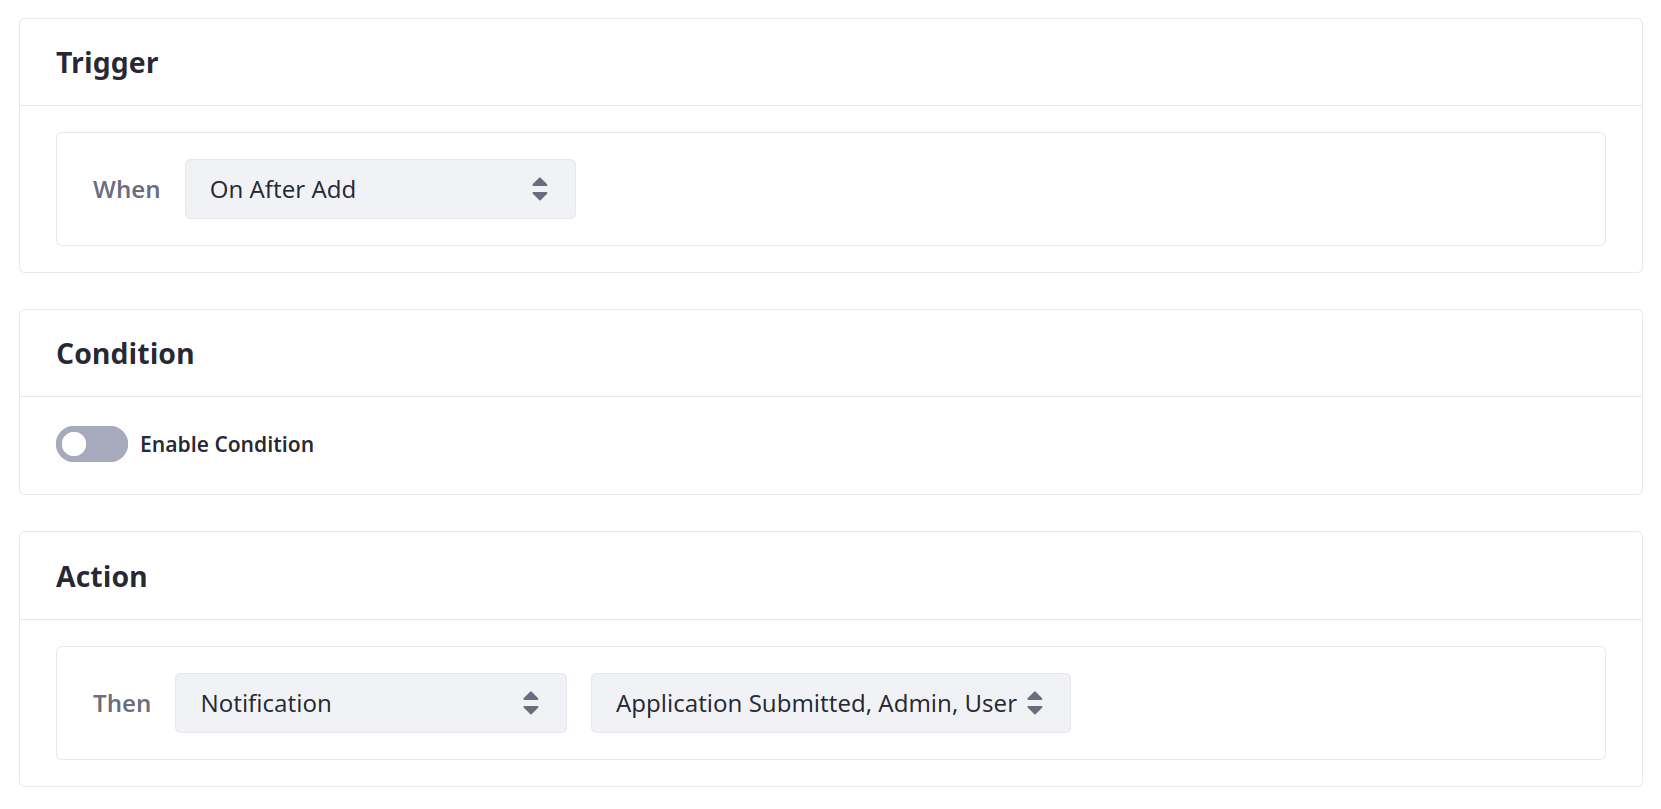
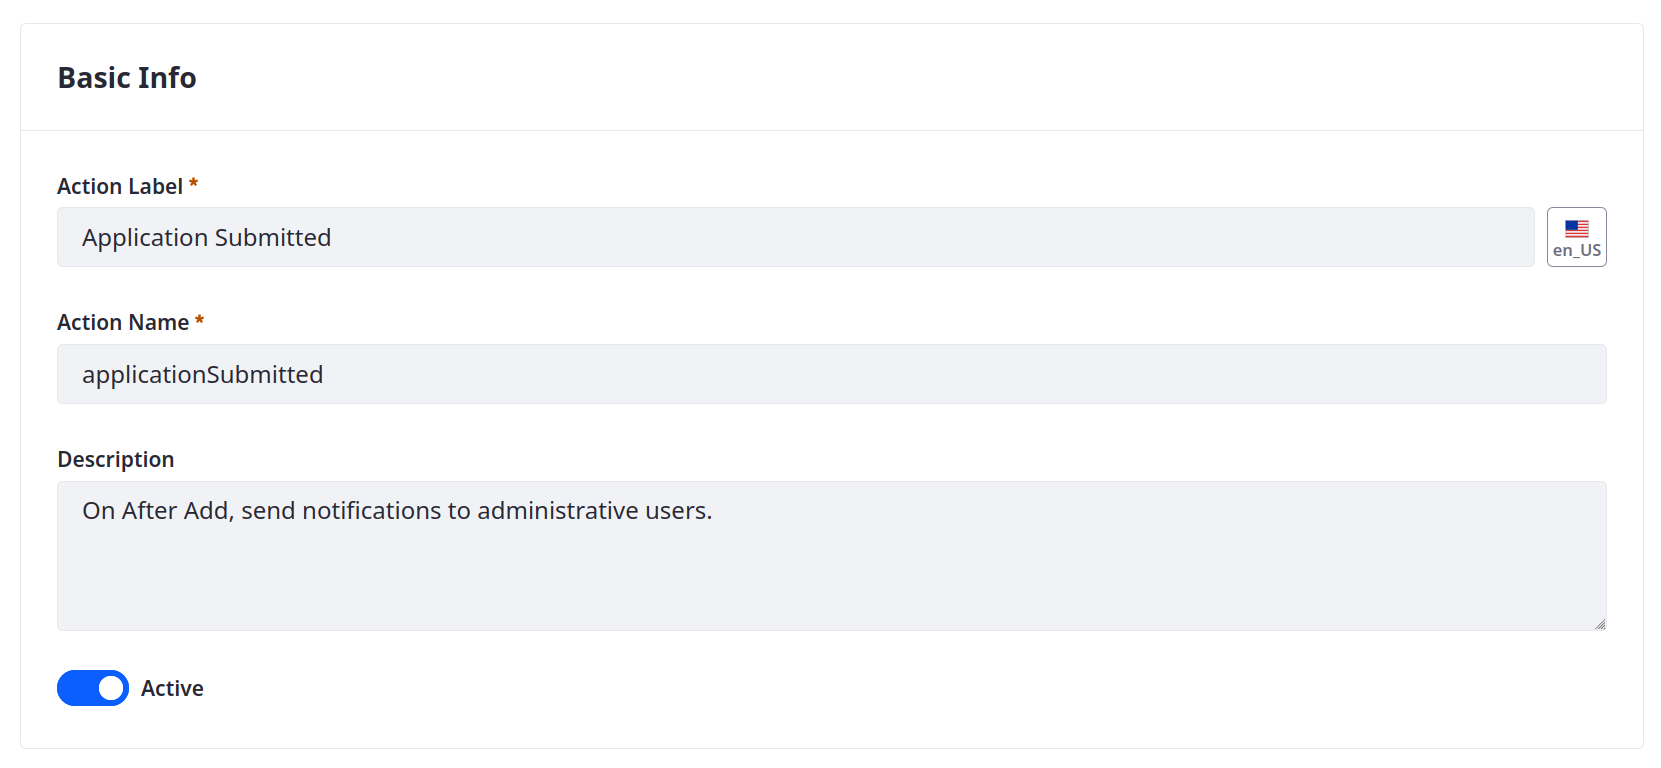
LRDOCS-11747 update notification content w/imgs

diff --git a/docs/courses/latest/en/application-development/implementing-business-logic/automating-notifications/adding-notification-actions-to-distributor-application.md b/docs/courses/latest/en/application-development/implementing-business-logic/automating-notifications/adding-notification-actions-to-distributor-application.md
@@ -1,14 +1,16 @@
 # Adding Notification Actions to Distributor Application
 
-The first two actions trigger when an entry is created. The other two depend on status updates. <!--FINISH-->
+Delectable Bonsai wants to improve visibility for the applications they receive. The first two actions trigger when an entry is created. The other two depend on status updates. <!--FINISH-->
+
+![Add notifications actions to Distributor Application.](./adding-notification-actions-to-distributor-application/images/01.png)
 
 ## Action for Application Submitted
 
-1. Open the *Global Menu* ( ![Global Menu](../../images/icon-applications-menu.png) ), go to the *Control Panel* tab, and click *Objects*.
+1. Open the *Global Menu* ( ![Global Menu](../../../images/icon-applications-menu.png) ), go to the *Control Panel* tab, and click *Objects*.
 
 1. Begin editing the *Distributer Application* object.
 
-1. Go to the *Actions* tab and click *Add* ( ![Add Button](../../images/icon-add.png) ).
+1. Go to the *Actions* tab and click *Add* ( ![Add Button](../../../images/icon-add.png) ).
 
 1. Enter these values in the Basic Info tab:
 
@@ -19,102 +21,116 @@ The first two actions trigger when an entry is created. The other two depend on 
    | Description  | On After Add, send notifications to administrative users. |
    | Active       | True                                                      |
 
-   ![Enter these values in the Basic Info tab.](./adding-notification-actions-to-distributor-application/images/01.png)
+   ![Enter these values in the Basic Info tab.](./adding-notification-actions-to-distributor-application/images/02.png)
 
 1. Go to the *Action Builder* tab and set these values:
 
-   | Field | Value |
-   |:------|:------|
-   | Trigger | On After Add |
-   | Condition | N/A |
-   | Action | Notification |
+   | Field                 | Value                              |
+   |:----------------------|:-----------------------------------|
+   | Trigger               | On After Add                       |
+   | Condition             | N/A                                |
+   | Action                | Notification                       |
    | Notification Template | Application Submitted, Admin, User |
 
-   ![Enter these values in the Action Builder tab.](./adding-notification-actions-to-distributor-application/images/02.png)
+   ![Enter these values in the Action Builder tab.](./adding-notification-actions-to-distributor-application/images/03.png)
 
 1. Click *Save*.
 
 ## Action for Application Received
 
-1. In the *Actions* tab, click *Add* ( ![Add Button](../../images/icon-add.png) ).
+1. In the *Actions* tab, click *Add* ( ![Add Button](../../../images/icon-add.png) ).
 
 1. Enter these values for Basic Info:
 
-   | Field | Value |
-   |:------|:------|
-   | Action Label | Application Received |
-   | Action Name | applicationReceived |
-   | Description | On After Add, send notifications to applicants. |
-   | Active | True |
+   | Field        | Value                                           |
+   |:-------------|:------------------------------------------------|
+   | Action Label | Application Received                            |
+   | Action Name  | applicationReceived                             |
+   | Description  | On After Add, send notifications to applicants. |
+   | Active       | True                                            |
 
 1. Go to the *Action Builder* tab and set these values:
 
-   | Field | Value |
-   |:------|:------|
-   | Trigger | On After Add |
-   | Condition | N/A |
-   | Action | Notification |
+   | Field                 | Value                                  |
+   |:----------------------|:---------------------------------------|
+   | Trigger               | On After Add                           |
+   | Condition             | N/A                                    |
+   | Action                | Notification                           |
    | Notification Template | Application Received, Applicant, Email |
 
 1. Click *Save*.
 
 ## Action for Application Approved
 
-1. In the *Actions* tab, click *Add* ( ![Add Button](../../images/icon-add.png) ).
+1. In the *Actions* tab, click *Add* ( ![Add Button](../../../images/icon-add.png) ).
 
 1. Enter these values for Basic Info:
 
-   | Field | Value |
-   |:------|:------|
-   | Action Label | Application Approved |
-   | Action Name | applicationApproved |
-   | Description | On After Update, send notifications to applicants when state is 'Approved'. |
-   | Active | True |
+   | Field        | Value                                                                       |
+   |:-------------|:----------------------------------------------------------------------------|
+   | Action Label | Application Approved                                                        |
+   | Action Name  | applicationApproved                                                         |
+   | Description  | On After Update, send notifications to applicants when state is 'Approved'. |
+   | Active       | True                                                                        |
 
 1. Go to the *Action Builder* tab and set these values:
 
-   | Field | Value |
-   |:------|:------|
-   | Trigger | On After Update |
-   | Condition | `applicationState == "approved" AND status == "approved"` |
-   | Action | Notification |
-   | Notification Template | Application Approved, Applicant, Email |
-
-   <!-- Confirm this is how you validate using the status field. Do you have to use the key or the label? -->
+   | Field                 | Value                                            |
+   |:----------------------|:-------------------------------------------------|
+   | Trigger               | On After Update                                  |
+   | Condition             | `applicationState == "approved" AND status == 0` |
+   | Action                | Notification                                     |
+   | Notification Template | Application Approved, Applicant, Email           |
 
 1. Click *Save*.
 
 ## Action for Application Denied
 
-1. In the *Actions* tab, click *Add* ( ![Add Button](../../images/icon-add.png) ).
+1. In the *Actions* tab, click *Add* ( ![Add Button](../../../images/icon-add.png) ).
 
 1. Enter these values for Basic Info:
 
-   | Field | Value |
-   |:------|:------|
-   | Action Label | Application Denied |
-   | Action Name | applicationDenied |
-   | Description | On After Update, send notifications to applicants when state is 'Denied'. |
-   | Active | True |
+   | Field        | Value                                                                     |
+   |:-------------|:--------------------------------------------------------------------------|
+   | Action Label | Application Denied                                                        |
+   | Action Name  | applicationDenied                                                         |
+   | Description  | On After Update, send notifications to applicants when state is 'Denied'. |
+   | Active       | True                                                                      |
 
 1. Go to the *Action Builder* tab and set these values:
 
-   | Field | Value |
-   |:------|:------|
-   | Trigger | On After Update |
-   | Condition | `applicationState == "denied" AND status == "approved"` |
-   | Action | Notification |
-   | Notification Template | Application Denied, Applicant, Email |
-
-   <!-- Confirm this is how you validate using the status field. Do you have to use the key or the label? -->
+   | Field                 | Value                                          |
+   |:----------------------|:-----------------------------------------------|
+   | Trigger               | On After Update                                |
+   | Condition             | `applicationState == "denied" AND status == 0` |
+   | Action                | Notification                                   |
+   | Notification Template | Application Denied, Applicant, Email           |
 
 1. Click *Save*.
 
-<!-- 
-## Triggering Notifications
--->
+## Triggering the Notification Actions
 
-Congratulations! You've successfully added the business logic necessary for the Distributor Application object. Now you can .
+Now that you've added and activated the notification actions, you can trigger them by adding and updating object entries:
+
+1. Go to the Distributor Application page and create an new entry.
+
+1. Verify the Application Submitted and Application Received actions run.
+
+   ![Verify the Application Submitted and Application Received actions run.](./adding-notification-actions-to-distributor-application/images/04.png)
+
+1. Update the application's state to *Approved*.
+
+1. Verify the Application Approved action runs.
+
+   ![Verify the Application Approved action runs.](./adding-notification-actions-to-distributor-application/images/05.png)
+
+1. Update the application's state to *Denied*.
+
+1. Verify the Application Denied action runs.
+
+   ![Verify the Application Denied action runs.](./adding-notification-actions-to-distributor-application/images/06.png)
+
+Congratulations! You've successfully added the business logic necessary for the Distributor Application object. Now you can design a user interface using Liferay's page builder features.
 
 Next: [Designing User Interfaces](../../designing-user-interfaces.md)
 

diff --git a/docs/courses/latest/en/application-development/implementing-business-logic/automating-notifications/adding-notification-templates-for-distributor-application.md b/docs/courses/latest/en/application-development/implementing-business-logic/automating-notifications/adding-notification-templates-for-distributor-application.md
@@ -19,9 +19,9 @@ If the out-of-the-box notification types do not satisfy your requirements, you c
 
 ## Application Submitted Template
 
-1. Open the *Global Menu* ( ![Global Menu](../../images/icon-applications-menu.png) ), go to the *Control Panel* tab, and click *Templates*.
+1. Open the *Global Menu* ( ![Global Menu](../../../images/icon-applications-menu.png) ), go to the *Control Panel* tab, and click *Templates*.
 
-1. Click *Add* ( ![Add Button](../../images/icon-add.png) ) and select *User Notification*.
+1. Click *Add* ( ![Add Button](../../../images/icon-add.png) ) and select *User Notification*.
 
 1. Scroll down to Definition of Terms and use the Entity drop-down menu to select the *Distributor Application* object.
 
@@ -63,7 +63,7 @@ If the out-of-the-box notification types do not satisfy your requirements, you c
 
 ## Application Received Template
 
-1. Click *Add* ( ![Add Button](../../images/icon-add.png) ) and select *Email*.
+1. Click *Add* ( ![Add Button](../../../images/icon-add.png) ) and select *Email*.
 
 1. Enter these values for Basic Info:
 
@@ -94,7 +94,7 @@ If the out-of-the-box notification types do not satisfy your requirements, you c
    | Editor Type | Rich Text |
    | Template | <!--See below...--> |
 
-   For the Template field, click the *Source* button ( ![Source button](../../images/icon-code.png) ). Then, copy and paste the contents of [`ApplicationReceived_Applicant_Email.html`](https://resources.learn.liferay.com/courses/latest/en/application-development/implementing-business-logic/automating-notifications/adding-notification-templates-for-distributor-application/ApplicationReceived_Applicant_Email.html) into the Template field.
+   For the Template field, click the *Source* button ( ![Source button](../../../images/icon-code.png) ). Then, copy and paste the contents of [`ApplicationReceived_Applicant_Email.html`](https://resources.learn.liferay.com/courses/latest/en/application-development/implementing-business-logic/automating-notifications/adding-notification-templates-for-distributor-application/ApplicationReceived_Applicant_Email.html) into the Template field.
 
    ![Enter these values for Content.](./adding-notification-templates-for-distributor-application/images/08.png)
 
@@ -106,7 +106,7 @@ If the out-of-the-box notification types do not satisfy your requirements, you c
 
 ## Application Approved Template
 
-1. Click *Add* ( ![Add Button](../../images/icon-add.png) ) and select *Email*.
+1. Click *Add* ( ![Add Button](../../../images/icon-add.png) ) and select *Email*.
 
 1. Enter these values for Basic Info:
 
@@ -133,7 +133,7 @@ If the out-of-the-box notification types do not satisfy your requirements, you c
    | Editor Type | Rich Text                          |
    | Template    | <!--See below...-->                |
 
-   For the Template field, click the *Source* button ( ![Source button](../../images/icon-code.png) ). Then, copy and paste the contents of [`ApplicationApproved_Applicant_Email.html`](https://resources.learn.liferay.com/courses/latest/en/application-development/implementing-business-logic/automating-notifications/adding-notification-templates-for-distributor-application/ApplicationApproved_Applicant_Email.html) into the Template field.
+   For the Template field, click the *Source* button ( ![Source button](../../../images/icon-code.png) ). Then, copy and paste the contents of [`ApplicationApproved_Applicant_Email.html`](https://resources.learn.liferay.com/courses/latest/en/application-development/implementing-business-logic/automating-notifications/adding-notification-templates-for-distributor-application/ApplicationApproved_Applicant_Email.html) into the Template field.
 
    When rendered, the body of the message should look like this:
 
@@ -143,7 +143,7 @@ If the out-of-the-box notification types do not satisfy your requirements, you c
 
 ## Application Denied Template
 
-1. Click *Add* ( ![Add Button](../../images/icon-add.png) ) and select *Email*.
+1. Click *Add* ( ![Add Button](../../../images/icon-add.png) ) and select *Email*.
 
 1. Enter these values for Basic Info:
 
@@ -170,7 +170,7 @@ If the out-of-the-box notification types do not satisfy your requirements, you c
    | Editor Type | Rich Text                   |
    | Template    | <!--See below...-->         |
 
-   For the Template field, click the *Source* button ( ![Source button](../../images/icon-code.png) ). Then, copy and paste the contents of [`ApplicationDenied_Applicant_Email.html`](https://resources.learn.liferay.com/courses/latest/en/application-development/implementing-business-logic/automating-notificiations/adding-notification-templates-for-distributor-application/ApplicationDenied_Applicant_Email.html) into the Template field.
+   For the Template field, click the *Source* button ( ![Source button](../../../images/icon-code.png) ). Then, copy and paste the contents of [`ApplicationDenied_Applicant_Email.html`](https://resources.learn.liferay.com/courses/latest/en/application-development/implementing-business-logic/automating-notificiations/adding-notification-templates-for-distributor-application/ApplicationDenied_Applicant_Email.html) into the Template field.
 
    When rendered, the body of the message should look like this:
 

diff --git a/docs/courses/latest/en/application-development/designing-user-interfaces/adding-the-form-to-the-apply-page.md b/docs/courses/latest/en/application-development/designing-user-interfaces/adding-the-form-to-the-apply-page.md
@@ -6,11 +6,11 @@ With Liferay objects, this involves adding form fragments to a content page or p
 
 1. Navigate to the Apply page and click *Edit* (![Edit Button](../../images/icon-edit.png)).
 
-   ![](./adding-the-form-to-the-apply-page/images/01.png)
+   ![Navigate to the Apply page and click Edit.](./adding-the-form-to-the-apply-page/images/01.png)
 
 1. Drag and drop the *Form Page* fragment into the empty Fragment Elements container at the bottom of the page.
 
-   ![](./adding-the-form-to-the-apply-page/images/02.png)
+   ![Drag and drop the Form Page fragment into the empty Fragment Elements container.](./adding-the-form-to-the-apply-page/images/02.png)
 
    This includes a form container that's mapped to the Distributor Application object and its fields. The form organizes form elements into these groups:
 
@@ -22,7 +22,7 @@ With Liferay objects, this involves adding form fragments to a content page or p
    * Attachments
    * Submit
 
-   ![](./adding-the-form-to-the-apply-page/images/03.png)
+   ![The Form Page fragment includes seven containers with fragments already mapped to object fields.](./adding-the-form-to-the-apply-page/images/03.png)
 
 1. Select these fields and mark them as required:
 
@@ -33,7 +33,7 @@ With Liferay objects, this involves adding form fragments to a content page or p
    * Business Website
    * Business Phone Number
 
-   ![](./adding-the-form-to-the-apply-page/images/04.png)
+   ![Mark fields as required.](./adding-the-form-to-the-apply-page/images/04.png)
 
 1. Select these fields and enter a display label for them:
 
@@ -46,21 +46,21 @@ With Liferay objects, this involves adding form fragments to a content page or p
 
    The provided fragments include display labels for the business, bank, and reference fields.
 
-   ![](./adding-the-form-to-the-apply-page/images/05.png)
+   ![Enter display labels for fields.](./adding-the-form-to-the-apply-page/images/05.png)
 
 1. Set placeholder text for these fields:
 
-   | Field                        | Placeholder                   |
-   |:-----------------------------|:------------------------------|
-   | Primary Contact Phone Number | `+1 (777) 777-7777`           |
-   | Business Website             | `https://businesswebsite.com` |
-   | Business Phone Number        | `+1 (777) 777-7777`           |
+   | Field                        | Placeholder                         |
+   |:-----------------------------|:------------------------------------|
+   | Primary Contact Phone Number | `e.g., +1 (777) 777-7777`           |
+   | Business Website             | `e.g., https://businesswebsite.com` |
+   | Business Phone Number        | `e.g., +1 (777) 777-7777`           |
 
-   ![](./adding-the-form-to-the-apply-page/images/06.png)
+   ![Set placeholder test for fields.](./adding-the-form-to-the-apply-page/images/06.png)
 
 1. Select the Form Container fragment, set the Success Message to *Page*, and select *Application Submission*.
 
-   ![](./adding-the-form-to-the-apply-page/images/07.png)
+   ![Set the Success Message to Page and select Application Submission.](./adding-the-form-to-the-apply-page/images/07.png)
 
 1. Click *Publish*.
 

diff --git a/docs/courses/latest/en/application-development/designing-user-interfaces.md b/docs/courses/latest/en/application-development/designing-user-interfaces.md
@@ -1,5 +1,7 @@
 # Designing User Interfaces
 
+Coming Soon!
+
 <!-- Designing custom user interfaces for custom applications in Liferay involves out-of-the-box page builder features (e.g., stylebooks, master page templates, display page templates), custom fragments, and front-end client extensions.
 
 Important to maintain continuity of style across your site (CSS) while providing a responsive display for different devices.
@@ -16,3 +18,7 @@ This section should include the OAuth client extension for authentication. -->
 Need a page for successful form submissions.
 Need an application overview page
 Need a display page for viewing each application's details. -->
+
+Ready?
+
+[Let's Go!](./designing-user-interfaces/adding-pages-for-distributor-application.md)

diff --git a/docs/courses/latest/en/application-development/designing-user-interfaces/adding-pages-for-distributor-application.md b/docs/courses/latest/en/application-development/designing-user-interfaces/adding-pages-for-distributor-application.md
@@ -1,5 +1,7 @@
 # Adding Pages for Distributor Application
 
+<!-- Intro -->
+
 1. Download the LAR file for the Distributor Application pages: <!--REFINE-->
 
    ```bash

diff --git a/docs/courses/latest/en/application-development/designing-user-interfaces/importing-fragments-for-the-distributor-application-pages.md b/docs/courses/latest/en/application-development/designing-user-interfaces/importing-fragments-for-the-distributor-application-pages.md
@@ -1,5 +1,7 @@
 # Importing Fragments for the Distributor Application Pages
 
+<!-- Intro -->
+
 1. Download the Distributor Application fragments ZIP:
 
    ```bash
